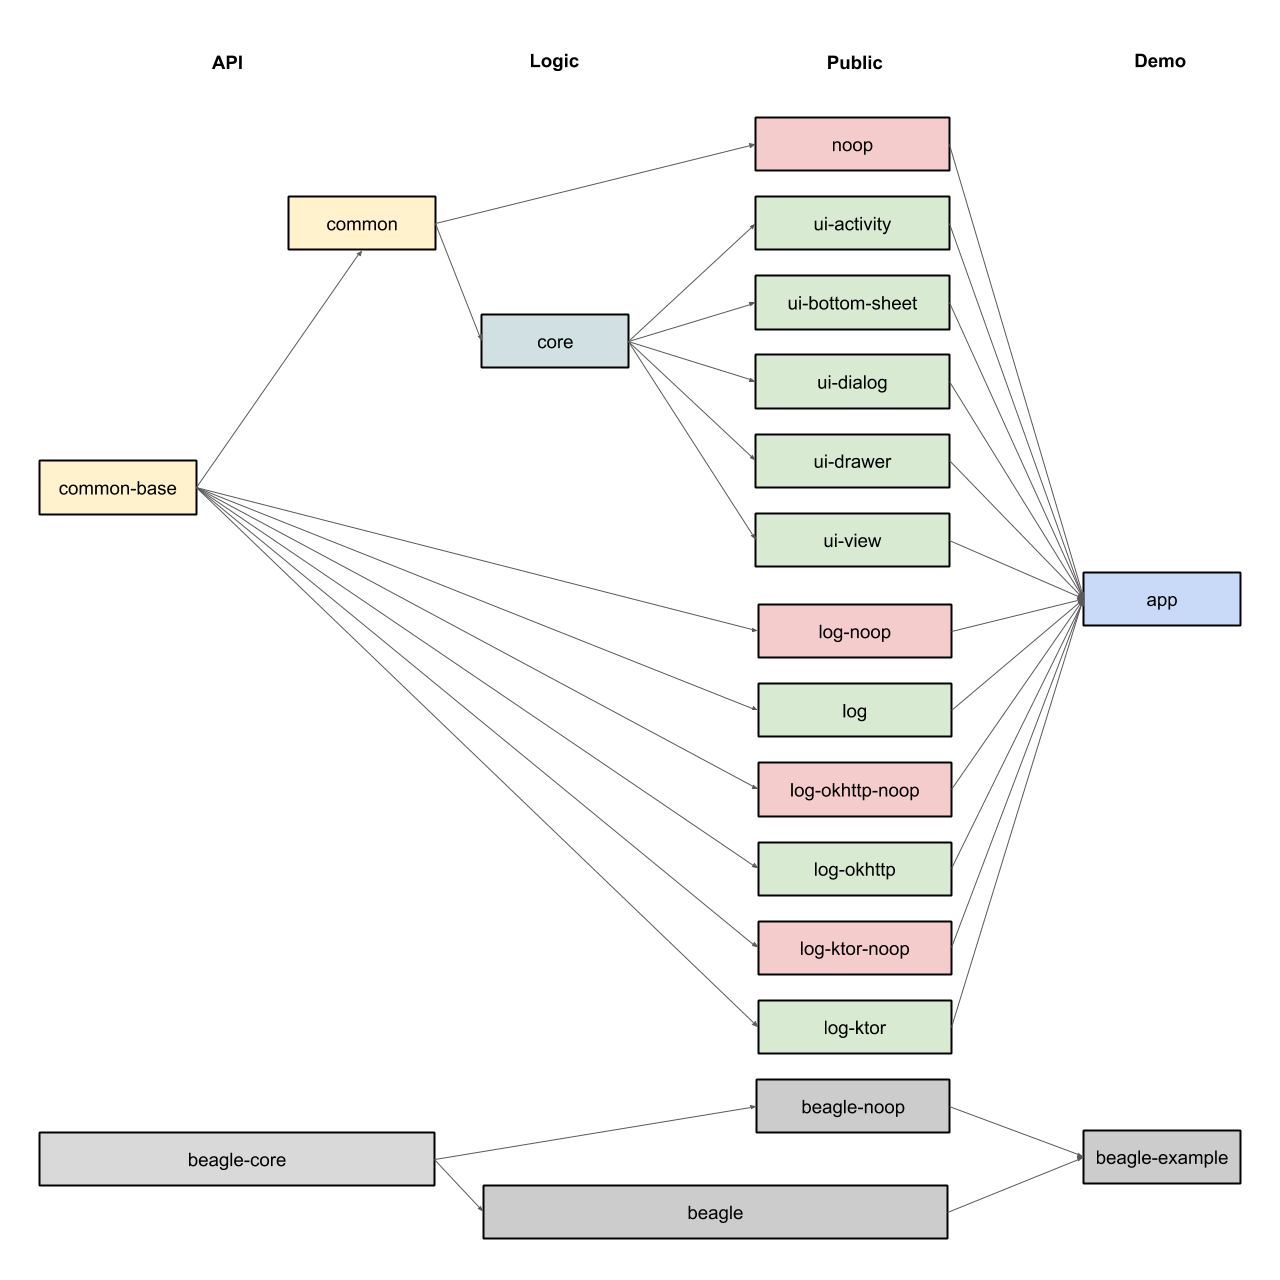
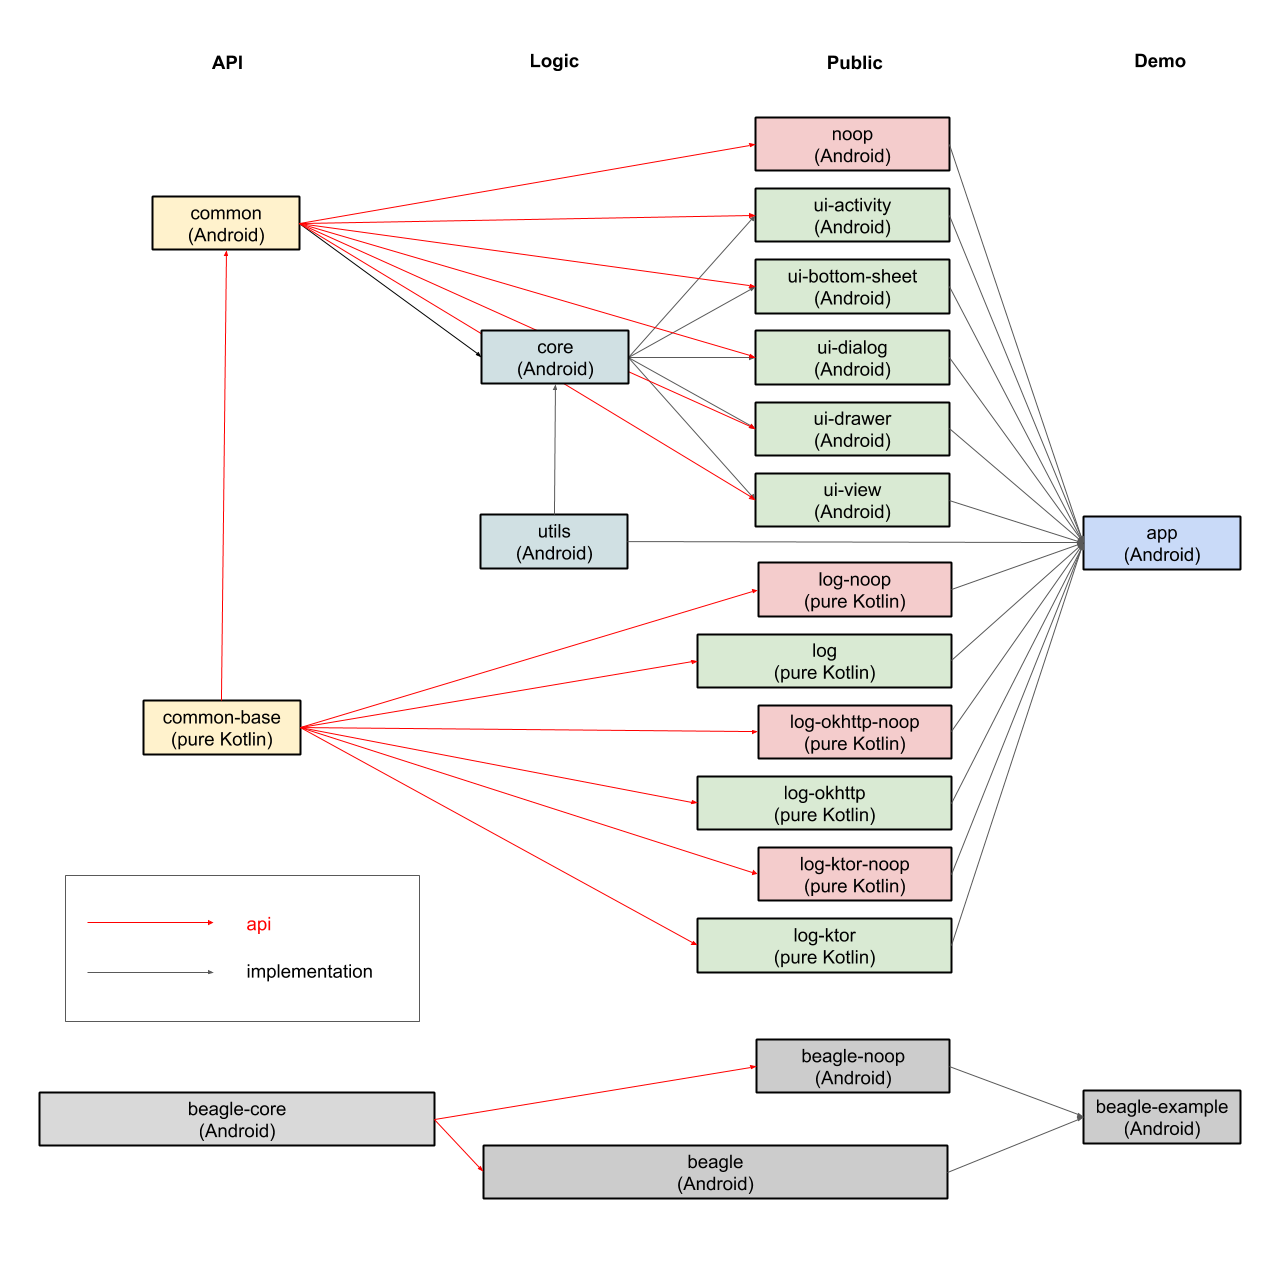
Create the "utils" module to reduce code duplication.

diff --git a/app/src/main/java/com/pandulapeter/beagle/appDemo/feature/shared/ListFragment.kt b/app/src/main/java/com/pandulapeter/beagle/appDemo/feature/shared/ListFragment.kt
@@ -15,8 +15,8 @@ import com.pandulapeter.beagle.appDemo.feature.shared.list.BaseAdapter
 import com.pandulapeter.beagle.appDemo.feature.shared.list.ListItem
 import com.pandulapeter.beagle.appDemo.utils.color
 import com.pandulapeter.beagle.appDemo.utils.observe
-import com.pandulapeter.beagle.appDemo.utils.waitForPreDraw
 import com.pandulapeter.beagle.common.contracts.module.Module
+import com.pandulapeter.beagle.utils.extensions.waitForPreDraw
 
 abstract class ListFragment<VM : ListViewModel<LI>, LI : ListItem>(
     @StringRes protected val titleResourceId: Int,
@@ -33,7 +33,7 @@ abstract class ListFragment<VM : ListViewModel<LI>, LI : ListItem>(
 
     fun blockGestures() {
         try {
-            binding.recyclerView.shouldBlockGestures = true
+            binding.recyclerView.shouldBlockGestures = { true }
         } catch (_: IllegalStateException) {
         }
     }
@@ -56,10 +56,10 @@ abstract class ListFragment<VM : ListViewModel<LI>, LI : ListItem>(
     }
 
     private fun setupRecyclerView() {
-        val listAdapter = createAdapter().also { it.blockGestures = { binding.recyclerView.shouldBlockGestures = true } }
+        val listAdapter = createAdapter().also { it.blockGestures = { binding.recyclerView.shouldBlockGestures = { true } } }
         viewModel.items.observe(owner = viewLifecycleOwner) { listAdapter.submitList(it, ::onListUpdated) }
         binding.recyclerView.run {
-            shouldBlockGestures = true
+            shouldBlockGestures = { true }
             adapter = listAdapter
             layoutManager = createLayoutManager()
             setHasFixedSize(true)
@@ -73,7 +73,7 @@ abstract class ListFragment<VM : ListViewModel<LI>, LI : ListItem>(
                 postDelayed({
                     try {
                         setLifted(binding.recyclerView.computeVerticalScrollOffset() != 0)
-                        binding.recyclerView.shouldBlockGestures = false
+                        binding.recyclerView.shouldBlockGestures = { false }
                     } catch (_: IllegalStateException) {
                     }
                 }, 300)

diff --git a/app/src/main/java/com/pandulapeter/beagle/appDemo/utils/Extensions.kt b/app/src/main/java/com/pandulapeter/beagle/appDemo/utils/Extensions.kt
@@ -34,9 +34,10 @@ import com.google.android.material.transition.MaterialFadeThrough
 import com.google.android.material.transition.MaterialSharedAxis
 import com.pandulapeter.beagle.appDemo.R
 import com.pandulapeter.beagle.appDemo.feature.shared.ListFragment
-import com.pandulapeter.beagle.modules.SectionHeaderModule
 import com.pandulapeter.beagle.modules.LongTextModule
+import com.pandulapeter.beagle.modules.SectionHeaderModule
 import com.pandulapeter.beagle.modules.TextModule
+import com.pandulapeter.beagle.utils.consume
 
 @RequiresApi(Build.VERSION_CODES.LOLLIPOP)
 fun Context.animatedDrawable(@DrawableRes drawableId: Int) = AnimatedVectorDrawableCompat.create(this, drawableId)!!
@@ -120,15 +121,6 @@ fun View.setTransitionName(@StringRes stringResourceId: Int) = setTransitionName
 
 @BindingAdapter("transitionName")
 fun View.setTransitionNameCompat(transitionName: String) = ViewCompat.setTransitionName(this, transitionName)
-
-inline fun View.waitForPreDraw(crossinline block: () -> Unit) = with(viewTreeObserver) {
-    addOnPreDrawListener(object : ViewTreeObserver.OnPreDrawListener {
-        override fun onPreDraw() = consume {
-            block()
-            viewTreeObserver.removeOnPreDrawListener(this)
-        }
-    })
-}
 
 fun Activity.updateSystemBars() = window.run {
     if (Build.VERSION.SDK_INT >= Build.VERSION_CODES.M) {

diff --git a/core/src/main/java/com/pandulapeter/beagle/core/view/gallery/GalleryActivity.kt b/core/src/main/java/com/pandulapeter/beagle/core/view/gallery/GalleryActivity.kt
@@ -16,7 +16,6 @@ import androidx.recyclerview.widget.RecyclerView
 import com.pandulapeter.beagle.BeagleCore
 import com.pandulapeter.beagle.core.R
 import com.pandulapeter.beagle.core.manager.ScreenCaptureManager
-import com.pandulapeter.beagle.core.util.consume
 import com.pandulapeter.beagle.core.util.extension.colorResource
 import com.pandulapeter.beagle.core.util.extension.dimension
 import com.pandulapeter.beagle.core.util.extension.getScreenCapturesFolder
@@ -27,6 +26,7 @@ import com.pandulapeter.beagle.core.util.extension.tintedDrawable
 import com.pandulapeter.beagle.core.util.extension.visible
 import com.pandulapeter.beagle.core.view.gallery.list.GalleryAdapter
 import com.pandulapeter.beagle.core.view.gallery.preview.MediaPreviewDialogFragment
+import com.pandulapeter.beagle.utils.consume
 
 internal class GalleryActivity : AppCompatActivity() {
 

diff --git a/core/src/main/java/com/pandulapeter/beagle/core/view/gallery/preview/MediaPreviewDialogFragment.kt b/core/src/main/java/com/pandulapeter/beagle/core/view/gallery/preview/MediaPreviewDialogFragment.kt
@@ -17,6 +17,7 @@ import com.pandulapeter.beagle.core.util.extension.applyTheme
 import com.pandulapeter.beagle.core.util.extension.getScreenCapturesFolder
 import com.pandulapeter.beagle.core.util.extension.visible
 import com.pandulapeter.beagle.core.util.extension.withArguments
+import com.pandulapeter.beagle.utils.extensions.waitForPreDraw
 import kotlinx.coroutines.GlobalScope
 import kotlinx.coroutines.launch
 
@@ -58,9 +59,9 @@ class MediaPreviewDialogFragment : DialogFragment() {
 
     private fun setDialogSizeFromImage(imageView: ImageView) {
         imageView.run {
-            post {
+            waitForPreDraw {
                 dialog?.window?.setLayout(width, height)
-                post { visible = true }
+                waitForPreDraw { visible = true }
             }
         }
     }

diff --git a/utils/src/main/java/com/pandulapeter/beagle/utils/view/GestureBlockingRecyclerView.kt b/utils/src/main/java/com/pandulapeter/beagle/utils/view/GestureBlockingRecyclerView.kt
@@ -1,4 +1,4 @@
-package com.pandulapeter.beagle.core.view
+package com.pandulapeter.beagle.utils.view
 
 import android.annotation.SuppressLint
 import android.content.Context
@@ -6,7 +6,7 @@ import android.util.AttributeSet
 import android.view.MotionEvent
 import androidx.recyclerview.widget.RecyclerView
 
-internal class GestureBlockingRecyclerView @JvmOverloads constructor(context: Context, attrs: AttributeSet?, defStyleAttr: Int = 0) : RecyclerView(context, attrs, defStyleAttr) {
+class GestureBlockingRecyclerView @JvmOverloads constructor(context: Context, attrs: AttributeSet?, defStyleAttr: Int = 0) : RecyclerView(context, attrs, defStyleAttr) {
 
     lateinit var shouldBlockGestures: () -> Boolean
 

diff --git a/app/src/main/java/com/pandulapeter/beagle/appDemo/feature/main/playground/PlaygroundFragment.kt b/app/src/main/java/com/pandulapeter/beagle/appDemo/feature/main/playground/PlaygroundFragment.kt
@@ -13,8 +13,8 @@ import com.pandulapeter.beagle.appDemo.feature.main.playground.list.PlaygroundAd
 import com.pandulapeter.beagle.appDemo.feature.main.playground.list.PlaygroundListItem
 import com.pandulapeter.beagle.appDemo.feature.shared.ListFragment
 import com.pandulapeter.beagle.appDemo.utils.TransitionType
-import com.pandulapeter.beagle.appDemo.utils.consume
 import com.pandulapeter.beagle.appDemo.utils.handleReplace
+import com.pandulapeter.beagle.utils.consume
 import org.koin.androidx.viewmodel.ext.android.viewModel
 
 class PlaygroundFragment : ListFragment<PlaygroundViewModel, PlaygroundListItem>(R.string.playground_title), ModuleRepository.Listener {

diff --git a/core/src/main/java/com/pandulapeter/beagle/core/manager/ListManager.kt b/core/src/main/java/com/pandulapeter/beagle/core/manager/ListManager.kt
@@ -40,7 +40,7 @@ import com.pandulapeter.beagle.core.list.delegates.SliderDelegate
 import com.pandulapeter.beagle.core.list.delegates.SwitchDelegate
 import com.pandulapeter.beagle.core.list.delegates.TextDelegate
 import com.pandulapeter.beagle.core.list.delegates.TextInputDelegate
-import com.pandulapeter.beagle.core.view.GestureBlockingRecyclerView
+import com.pandulapeter.beagle.utils.view.GestureBlockingRecyclerView
 import com.pandulapeter.beagle.modules.AnimationDurationSwitchModule
 import com.pandulapeter.beagle.modules.AppInfoButtonModule
 import com.pandulapeter.beagle.modules.ButtonModule

diff --git a/app/src/main/java/com/pandulapeter/beagle/appDemo/feature/main/MainFragment.kt b/app/src/main/java/com/pandulapeter/beagle/appDemo/feature/main/MainFragment.kt
@@ -9,8 +9,8 @@ import com.pandulapeter.beagle.appDemo.feature.main.examples.ExamplesContainerFr
 import com.pandulapeter.beagle.appDemo.feature.main.playground.PlaygroundContainerFragment
 import com.pandulapeter.beagle.appDemo.feature.main.setup.SetupContainerFragment
 import com.pandulapeter.beagle.appDemo.feature.shared.BaseFragment
-import com.pandulapeter.beagle.appDemo.utils.consume
 import com.pandulapeter.beagle.appDemo.utils.handleReplace
+import com.pandulapeter.beagle.utils.consume
 
 class MainFragment : BaseFragment<FragmentMainBinding>(R.layout.fragment_main) {
 

diff --git a/core/src/main/java/com/pandulapeter/beagle/core/BeagleImplementation.kt b/core/src/main/java/com/pandulapeter/beagle/core/BeagleImplementation.kt
@@ -38,7 +38,7 @@ import com.pandulapeter.beagle.core.manager.listener.UpdateListenerManager
 import com.pandulapeter.beagle.core.manager.listener.VisibilityListenerManager
 import com.pandulapeter.beagle.core.util.extension.hideKeyboard
 import com.pandulapeter.beagle.core.view.AlertDialogFragment
-import com.pandulapeter.beagle.core.view.GestureBlockingRecyclerView
+import com.pandulapeter.beagle.utils.view.GestureBlockingRecyclerView
 import com.pandulapeter.beagle.modules.LifecycleLogListModule
 import kotlin.properties.Delegates
 import kotlin.reflect.KClass

diff --git a/core/src/main/java/com/pandulapeter/beagle/core/view/InternalDebugMenuView.kt b/core/src/main/java/com/pandulapeter/beagle/core/view/InternalDebugMenuView.kt
@@ -20,6 +20,7 @@ import com.pandulapeter.beagle.core.util.extension.applyTheme
 import com.pandulapeter.beagle.core.util.extension.colorResource
 import com.pandulapeter.beagle.core.util.extension.dimension
 import com.pandulapeter.beagle.core.util.extension.drawable
+import com.pandulapeter.beagle.utils.view.GestureBlockingRecyclerView
 
 class InternalDebugMenuView @JvmOverloads constructor(context: Context, attrs: AttributeSet? = null, defStyleAttr: Int = 0) : FrameLayout(context.applyTheme(), attrs, defStyleAttr),
     UpdateListener {

diff --git a/utils/src/main/java/com/pandulapeter/beagle/utils/extensions/View.kt b/utils/src/main/java/com/pandulapeter/beagle/utils/extensions/View.kt
@@ -1,0 +1,14 @@
+package com.pandulapeter.beagle.utils.extensions
+
+import android.view.View
+import android.view.ViewTreeObserver
+import com.pandulapeter.beagle.utils.consume
+
+inline fun View.waitForPreDraw(crossinline block: () -> Unit) = with(viewTreeObserver) {
+    addOnPreDrawListener(object : ViewTreeObserver.OnPreDrawListener {
+        override fun onPreDraw() = consume {
+            block()
+            viewTreeObserver.removeOnPreDrawListener(this)
+        }
+    })
+}

diff --git a/app/src/main/java/com/pandulapeter/beagle/appDemo/feature/main/examples/authentication/list/PasswordInputViewHolder.kt b/app/src/main/java/com/pandulapeter/beagle/appDemo/feature/main/examples/authentication/list/PasswordInputViewHolder.kt
@@ -7,7 +7,7 @@ import androidx.databinding.DataBindingUtil
 import com.pandulapeter.beagle.appDemo.R
 import com.pandulapeter.beagle.appDemo.databinding.ItemAuthenticationPasswordInputBinding
 import com.pandulapeter.beagle.appDemo.feature.shared.list.BaseViewHolder
-import com.pandulapeter.beagle.appDemo.utils.consume
+import com.pandulapeter.beagle.utils.consume
 
 class PasswordInputViewHolder private constructor(
     binding: ItemAuthenticationPasswordInputBinding,
